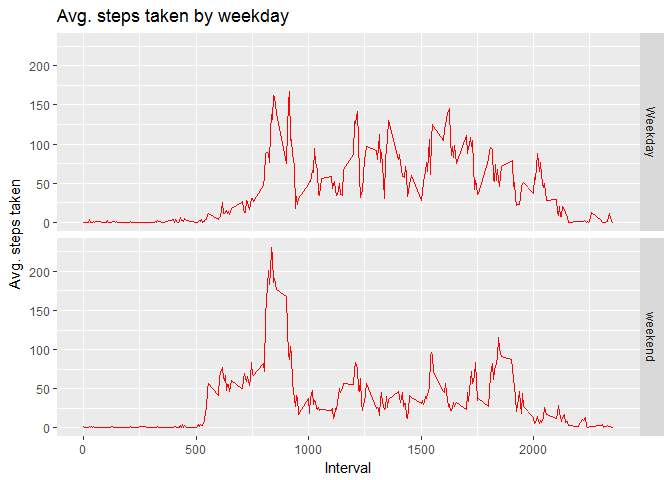
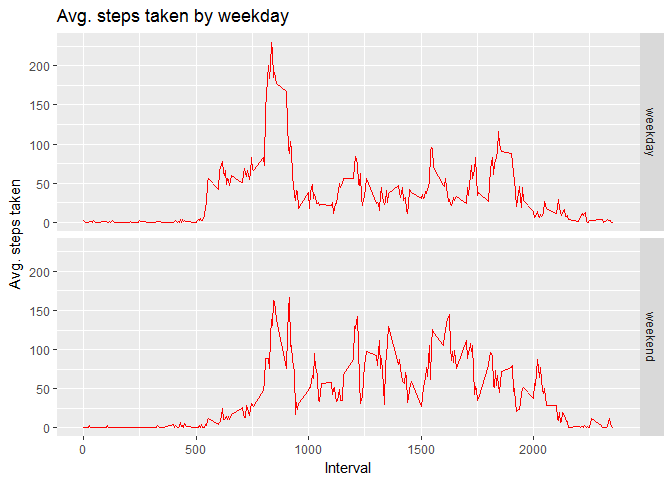
fixed error

diff --git a/PA1_template.html b/PA1_template.html
@@ -301,7 +301,7 @@ md.steps2</code></pre>
 <li>Make a panel plot containing a time series plot (i.e. type = “l”) of the 5-minute interval (x-axis) and the average number of steps taken, averaged across all weekday days or weekend days (y-axis). The plot should look something like the following, which was created using simulated data:</li>
 </ol>
 <pre class="r"><code># 1. Create a new factor variable in the dataset with two levels -- &quot;weekday&quot; and &quot;weekend&quot; indicating whether a given date is a weekday or weekend day.
-activity2$weekday &lt;- ifelse(weekdays(activity2$date) %in% c('Saturday','Sunday'),'Weekday','weekend')
+activity2$weekday &lt;- ifelse(weekdays(activity2$date) %in% c('Saturday','Sunday'),'weekend','weekday')
 activity2$weekday &lt;- as.factor(activity2$weekday)
 avg.steps.per.interval.by.weekday &lt;- activity2 %&gt;% group_by(weekday,interval) %&gt;%
                                      summarize(avg.steps=mean(steps))
@@ -309,21 +309,21 @@ head(avg.steps.per.interval.by.weekday)</code></pre>
 <pre><code>## Source: local data frame [6 x 3]
 ## Groups: weekday [1]
 ## 
-##   weekday interval   avg.steps
-##    &lt;fctr&gt;    &lt;int&gt;       &lt;dbl&gt;
-## 1 Weekday        0 0.214622642
-## 2 Weekday        5 0.042452830
-## 3 Weekday       10 0.016509434
-## 4 Weekday       15 0.018867925
-## 5 Weekday       20 0.009433962
-## 6 Weekday       25 3.511792453</code></pre>
+##   weekday interval  avg.steps
+##    &lt;fctr&gt;    &lt;int&gt;      &lt;dbl&gt;
+## 1 weekday        0 2.25115304
+## 2 weekday        5 0.44528302
+## 3 weekday       10 0.17316562
+## 4 weekday       15 0.19790356
+## 5 weekday       20 0.09895178
+## 6 weekday       25 1.59035639</code></pre>
 <pre class="r"><code># 2. Make a panel plot containing a time series plot (i.e. type = &quot;l&quot;) of the 5-minute interval (x-axis) and the average number of steps taken, averaged across all weekday days or weekend days (y-axis). 
 #    The plot should look something like the following, which was created using simulated data:
 g&lt;-ggplot(avg.steps.per.interval.by.weekday,aes(x=interval,y=avg.steps))+geom_line(color=&quot;red&quot;)
 g&lt;-g+facet_grid(weekday~.)
 g&lt;-g+xlab(&quot;Interval&quot;) + ylab(&quot;Avg. steps taken&quot;)+ggtitle(&quot;Avg. steps taken by weekday&quot;) 
 g</code></pre>
[2 lines of base64/hex data omitted]
 <p>Remove all variables</p>
 <pre class="r"><code>## remove datasets 
 rm(avg.steps.per.interval.by.weekday,avg.steps.per.interval,activity2,activity,ttl.steps.per.day2,ttl.steps.per.day)</code></pre>

diff --git a/PA1_template.md b/PA1_template.md
@@ -267,7 +267,7 @@ After imputing, the mean and median are 10766 and 10766 respectively.
 
 ```r
 # 1. Create a new factor variable in the dataset with two levels -- "weekday" and "weekend" indicating whether a given date is a weekday or weekend day.
-activity2$weekday <- ifelse(weekdays(activity2$date) %in% c('Saturday','Sunday'),'Weekday','weekend')
+activity2$weekday <- ifelse(weekdays(activity2$date) %in% c('Saturday','Sunday'),'weekend','weekday')
 activity2$weekday <- as.factor(activity2$weekday)
 avg.steps.per.interval.by.weekday <- activity2 %>% group_by(weekday,interval) %>%
                                      summarize(avg.steps=mean(steps))
@@ -278,14 +278,14 @@ head(avg.steps.per.interval.by.weekday)
 ## Source: local data frame [6 x 3]
 ## Groups: weekday [1]
 ## 
-##   weekday interval   avg.steps
-##    <fctr>    <int>       <dbl>
-## 1 Weekday        0 0.214622642
-## 2 Weekday        5 0.042452830
-## 3 Weekday       10 0.016509434
-## 4 Weekday       15 0.018867925
-## 5 Weekday       20 0.009433962
-## 6 Weekday       25 3.511792453
+##   weekday interval  avg.steps
+##    <fctr>    <int>      <dbl>
+## 1 weekday        0 2.25115304
+## 2 weekday        5 0.44528302
+## 3 weekday       10 0.17316562
+## 4 weekday       15 0.19790356
+## 5 weekday       20 0.09895178
+## 6 weekday       25 1.59035639
 ```
 
 
